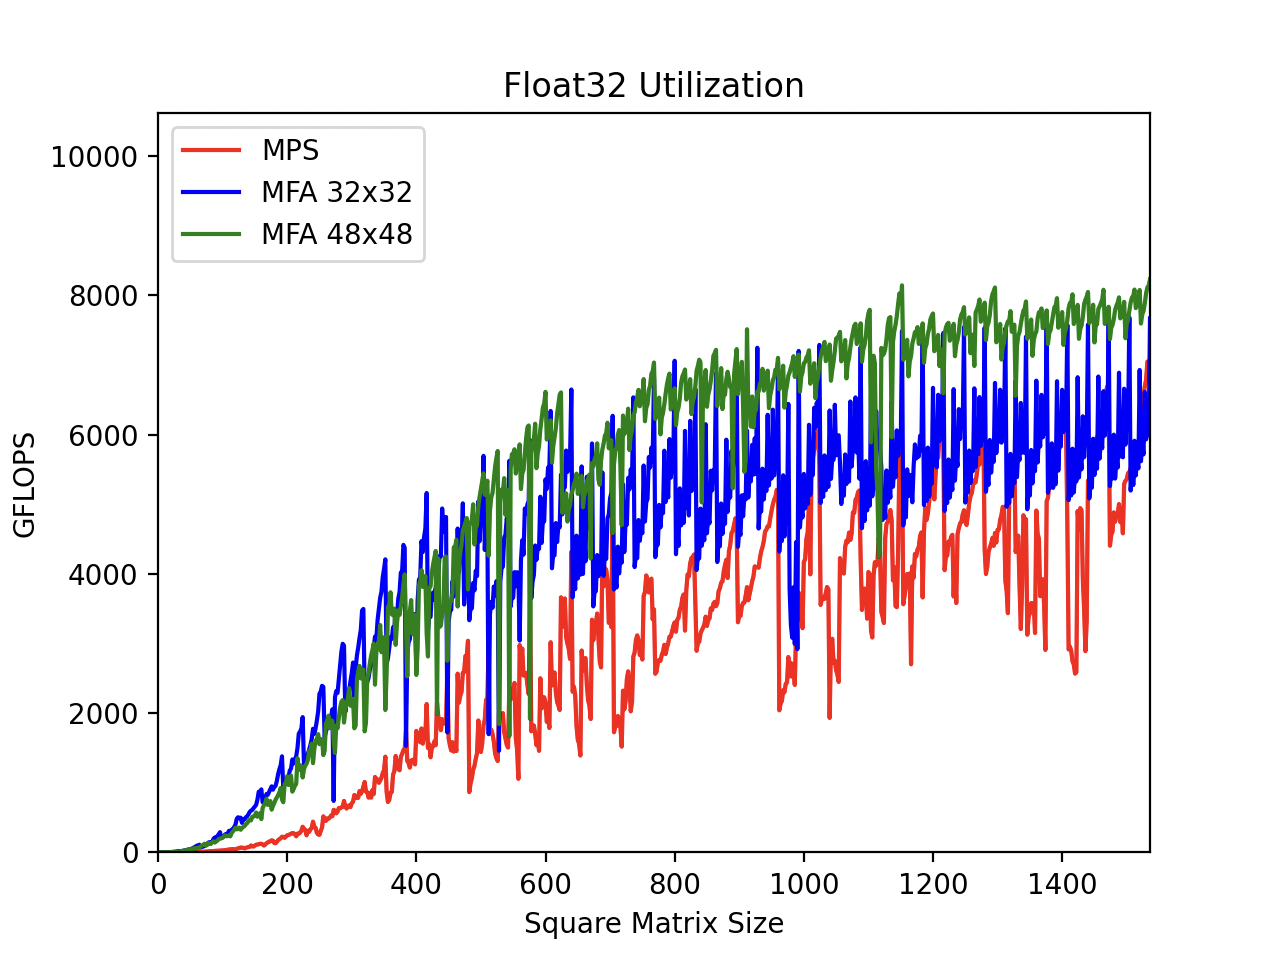
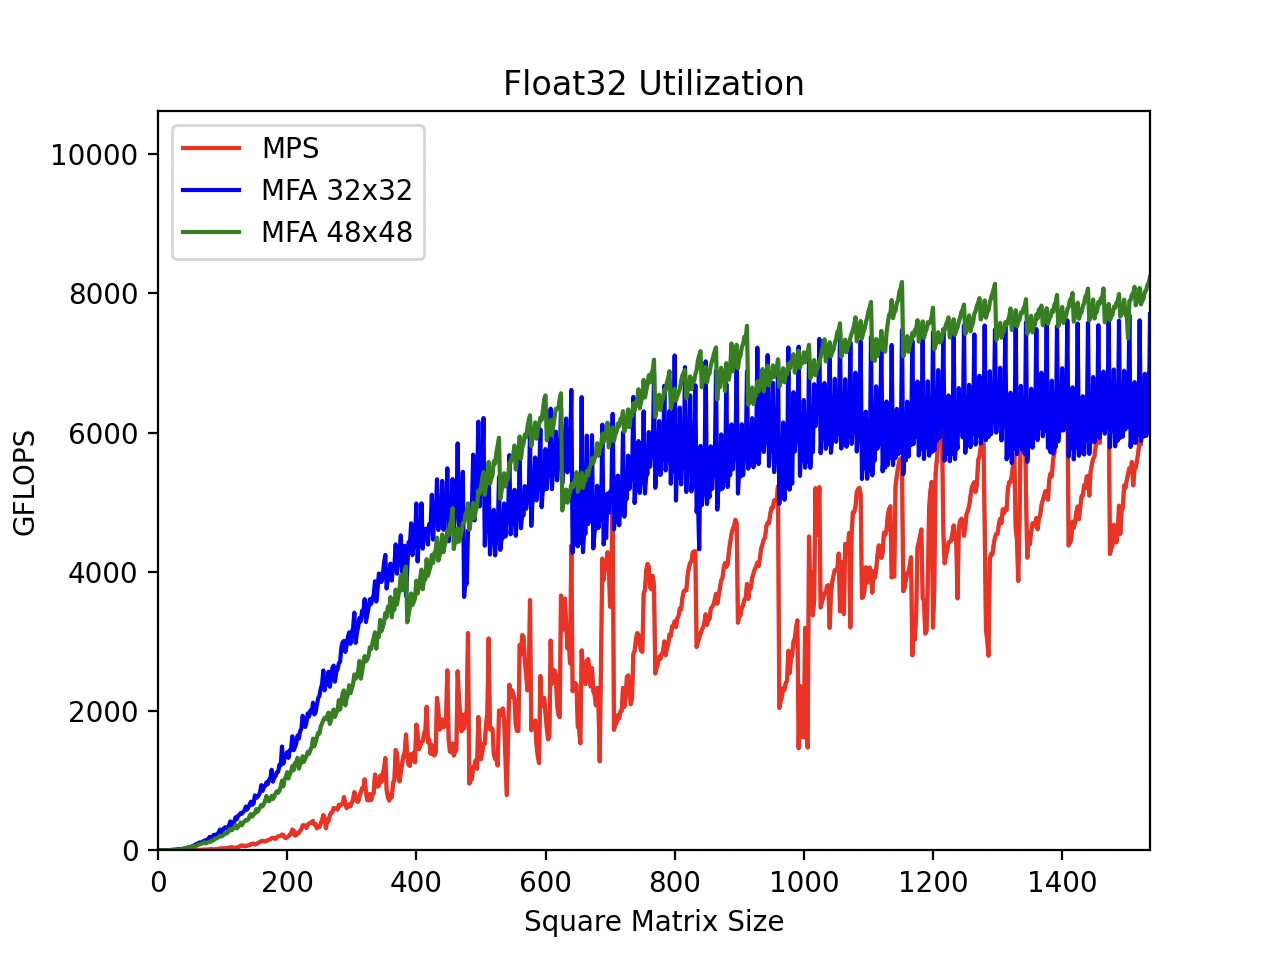
Update Float32 CI

diff --git a/Tests/Test Cases/MFATestCase.swift b/Tests/Test Cases/MFATestCase.swift
@@ -10,7 +10,7 @@ import Foundation
 class MFATestCase {
   // Global setting for the precision used in tests.
   #if arch(arm64)
-  typealias Real = Float16
+  typealias Real = Float32
   #else
   typealias Real = Float
   #endif